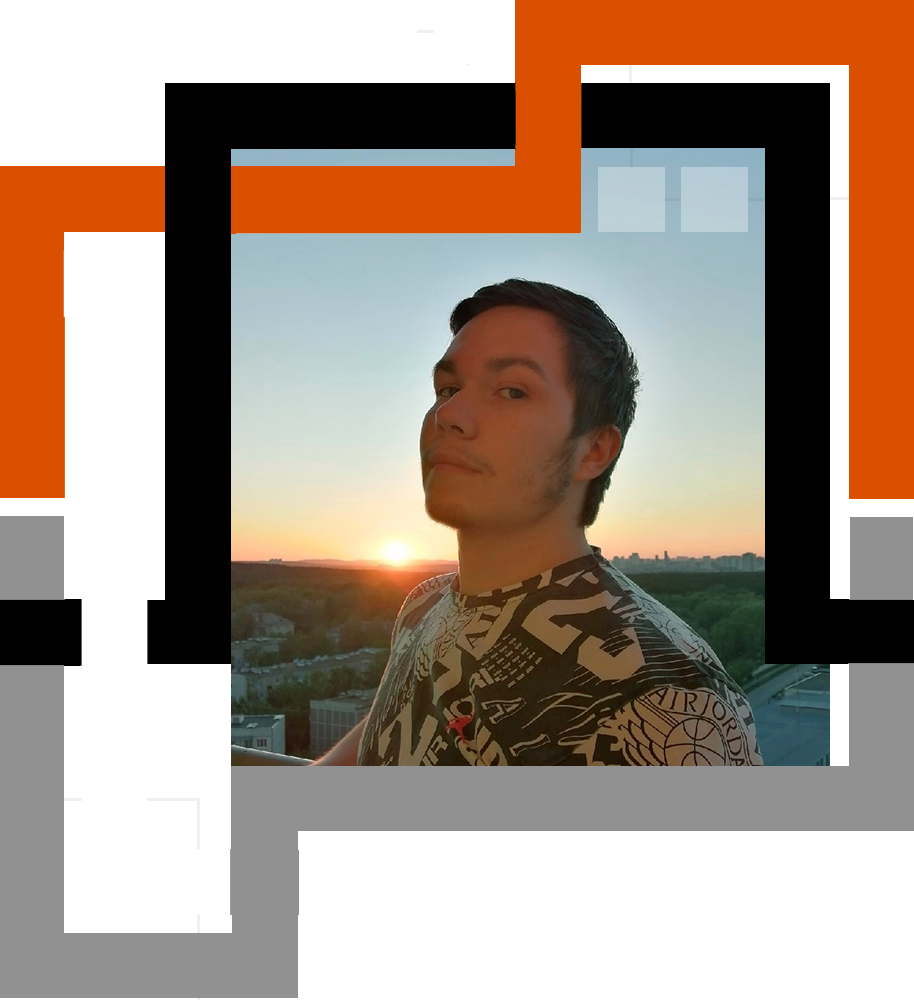
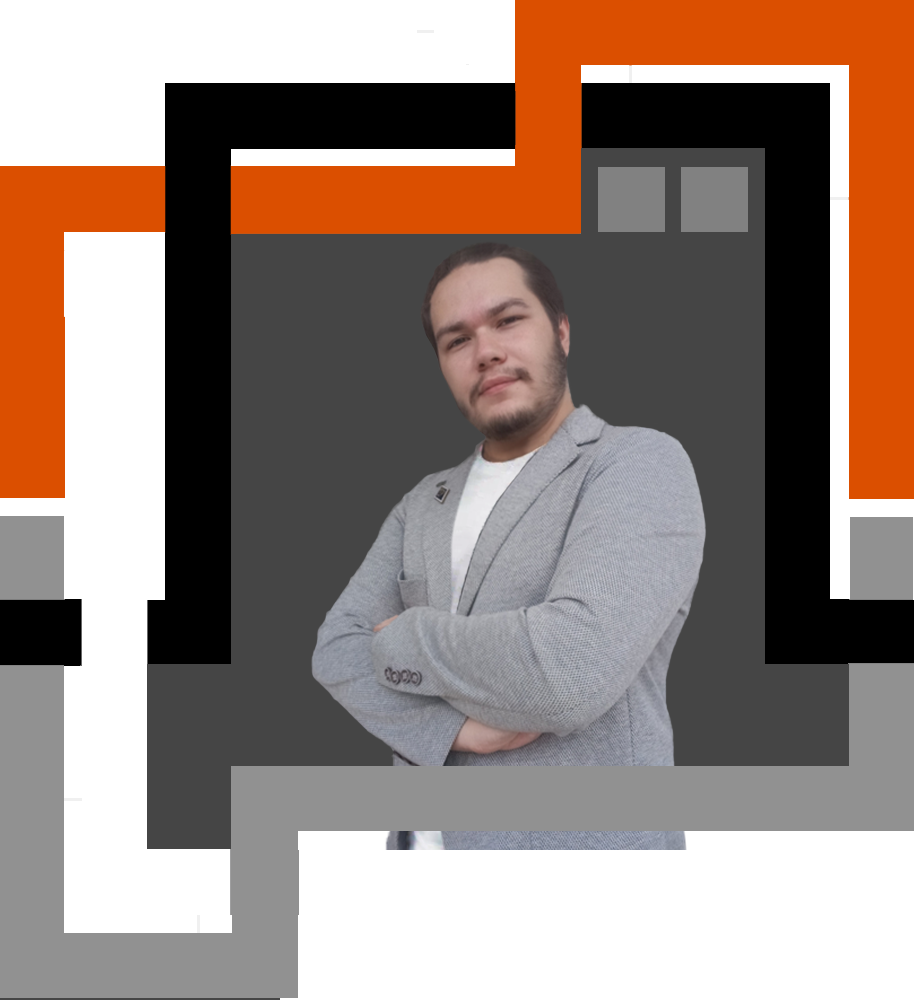
Корректировка верстки и обновленное фото

diff --git a/public/main.css b/public/main.css
@@ -15,7 +15,6 @@ body{
 main{
     width: 100%;
     max-width: 2000px;
-    border-left: 5px solid black;
     margin-bottom: 50px;
     padding: 80px 50px 0;
     box-sizing: border-box;
@@ -38,6 +37,7 @@ header{
     font-size: 60px;
     line-height: 60px;
     padding-top: 20px;
+    padding-left: 20px;
 }
 .logo span:nth-child(2){
     margin-left: 150px;
@@ -149,11 +149,16 @@ header{
 .description{
     position: relative;
     font-size: 26px;
-    color: white;
+    font-weight: 600;
+    color: black;
     text-align: center;
     width: 800px;
     margin-bottom: 20px;
     margin-top: 20px;
+    background: white;
+    border: 15px solid #DB4F00;
+    border-radius: 35px;
+    padding: 15px;
 }
 .skill-list {
     display: flex;
@@ -277,6 +282,7 @@ footer{
     border-radius: 40px 40px 0 0;
     padding: 0 50px;
     box-sizing: border-box;
+    max-width: 2000px;
 }
 }
 @media (max-width: 1200px) {
@@ -290,7 +296,6 @@ footer{
     main{
         width: 100%;
         max-width: 2000px;
-        border-left: 5px solid black;
         margin-bottom: 50px;
         padding: 80px 50px 0;
         box-sizing: border-box;
@@ -312,6 +317,7 @@ footer{
         flex-direction: column;
         font-size: 50px;
         line-height: 50px;
+        padding-left: 20px;
     }
     .logo span:nth-child(2){
         margin-left: 110px;
@@ -423,11 +429,16 @@ footer{
     .description{
         position: relative;
         font-size: 26px;
-        color: white;
+        font-weight: 600;
+        color: black;
         text-align: center;
         width: 800px;
         margin-bottom: 20px;
         margin-top: 20px;
+        background: white;
+        border: 15px solid #DB4F00;
+        border-radius: 35px;
+        padding: 15px;
     }
     .skill-list {
         display: flex;
@@ -548,6 +559,7 @@ footer{
         border-radius: 40px 40px 0 0;
         padding: 0 50px;
         box-sizing: border-box;
+        max-width: 2000px;
     }
 }
 @media (max-width: 900px) {
@@ -622,9 +634,8 @@ footer{
         object-fit: contain;
     }
     .description{
-        position: relative;
         font-size: 20px;
-        color: white;
+        color: black;
         text-align: center;
         width: 500px;
         margin-bottom: 20px;
@@ -692,7 +703,7 @@ footer{
         flex-direction: column;
         font-size: 28px;
         line-height: 40px;
-
+        padding-left: 20px;
     }
     .logo span:nth-child(2){
         margin-left: 55px;
@@ -707,9 +718,6 @@ footer{
         margin-left: 10px;
         padding: 3px;
     }
-    .logo{
-        padding: 0;
-    }
     .side-text{
         width: 300px;
         height: 60px;
@@ -723,8 +731,11 @@ footer{
     }
     .description{
         font-size: 14px;
-        width: 350px;
+        width: 330px;
         margin-right: 0;
+        padding: 10px;
+        border-radius: 20px;
+        border: 10px solid #DB4F00;
     }
     .avatar{
         width: 100%;
@@ -838,7 +849,6 @@ footer{
     }
 }
 @media (max-width: 399.9px) {
-
     .logo{
         font-size: 20px;
     }
@@ -871,7 +881,7 @@ footer{
         font-size: 22px;
     }
     header{
-        margin-bottom: -40px;
+        margin-bottom: -80px;
     }
     .point{
         width: 8px;
@@ -900,7 +910,7 @@ footer{
     }
     .description{
         font-size: 10px;
-        max-width: 300px;
+        max-width: 250px;
     }
     .about{
         margin-bottom: 0;
